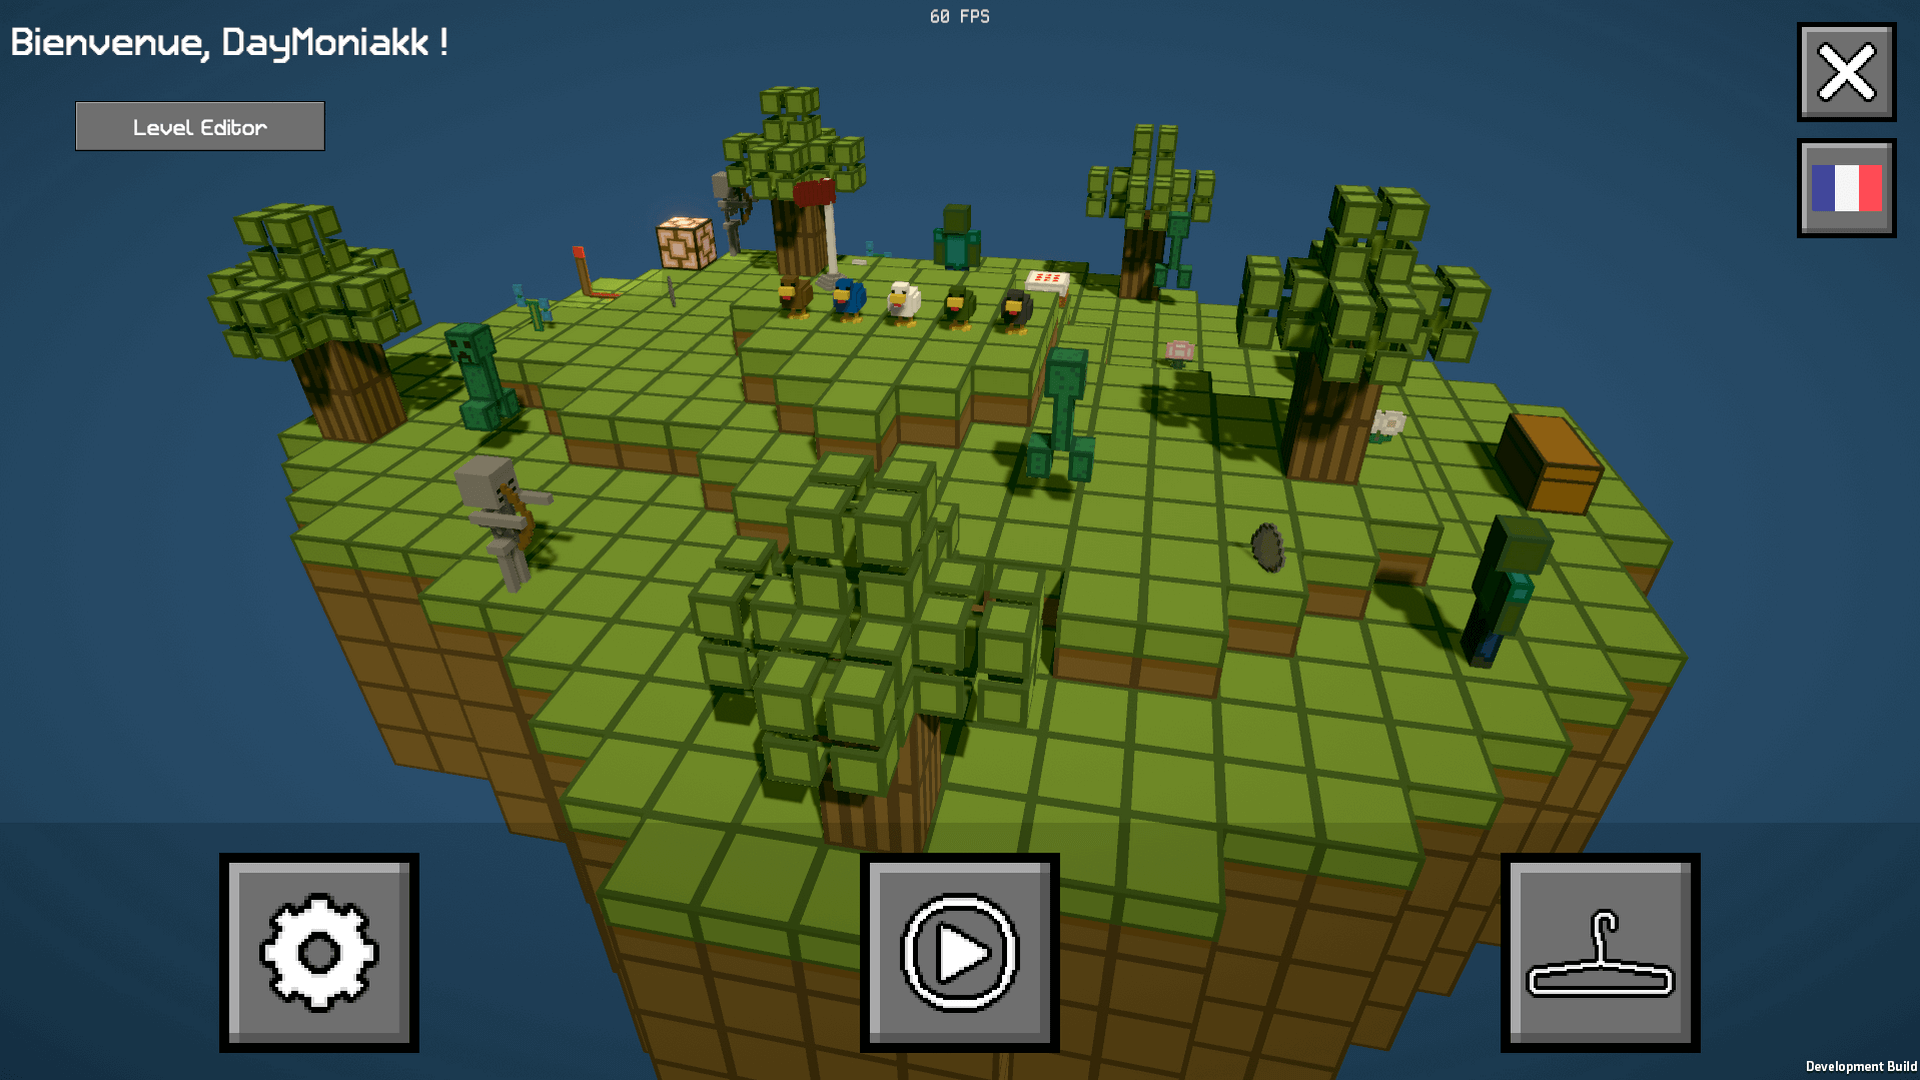
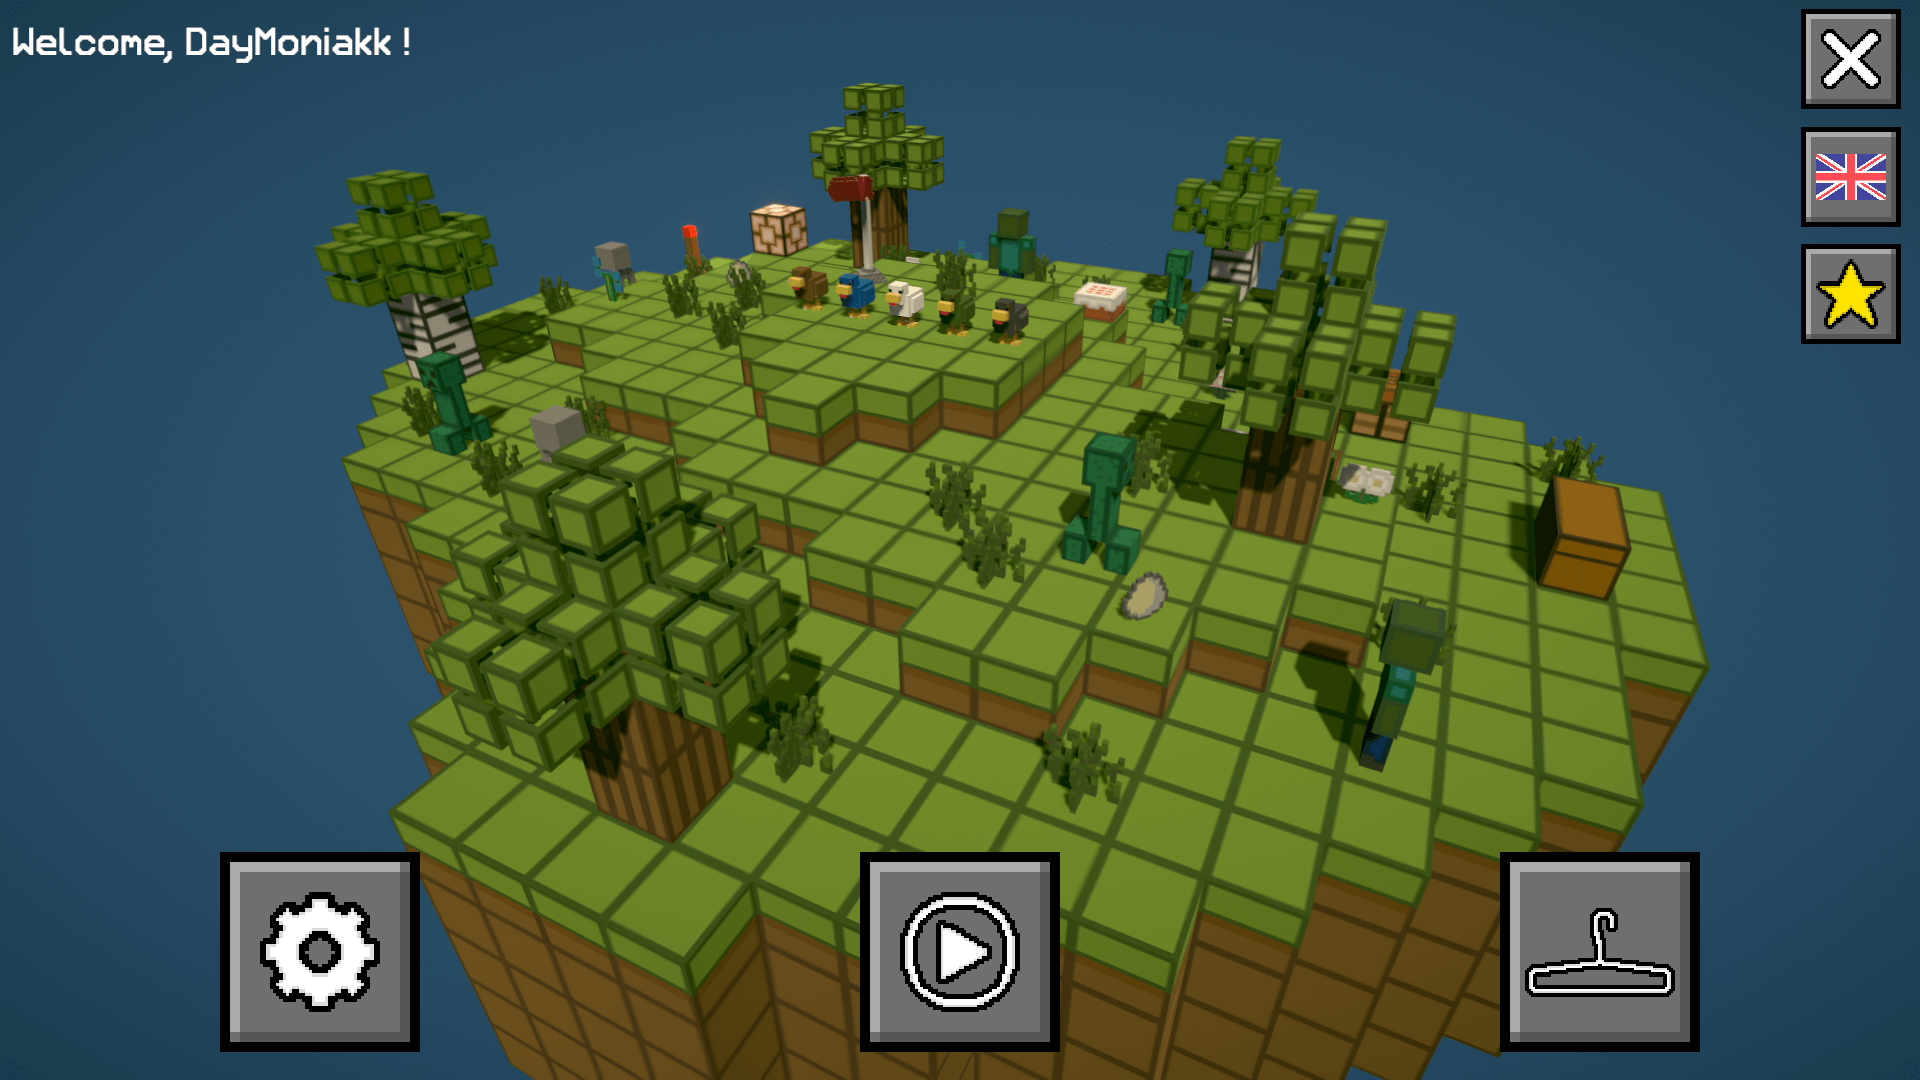
Releasing Go Chicken

diff --git a/gochicken.html b/gochicken.html
@@ -100,6 +100,7 @@
             color: #e9edf2;
             text-decoration: none;
             border-radius: 25px;
+            text-align: center;
         }
         .btnBig:hover
         {
@@ -177,10 +178,10 @@
             <img src="imgs/gochickenmenu.png" />
             <img src="imgs/gochickenzombie.png" />
             <img src="imgs/gochickenlevel.png" />
-            <img src="imgs/gochickenmodels.png" />
+            <img src="imgs/gochickenwinterlevel.png" />
             <hr />
             <p>
-                <h4 style="display:inline">Game status : </h4>  <h3 style="display:inline; color:#d56900">almost completed (version 0.9)</h3>
+                <h4 style="display:inline">Game status : </h4>  <h3 style="display:inline; color:#33cc33">Released (version 1.0)</h3>
             </p>
             <p>
                 <h4 style="display:inline">Modeling sofware : </h4>  <h3 style="display:inline">MagicaVoxel / Blender</h3>
@@ -192,14 +193,17 @@
                 <h4 style="display:inline">Game engine : </h4>  <h3 style="display:inline">Unity 2020.3</h3>
             </p>
             <p>
-                <h4 style="display:inline">Release date : </h4>  <h3 style="display:inline">First half of 2020</h3>
+                <h4 style="display:inline">Release date : </h4>  <h3 style="display:inline">1st June 2020</h3>
             </p>
             <hr />
             <p style="padding:10px">
-                <a class="btnBig" title="Download the game !">Download not available yet.</a>
+                <a class="btnBig" href="https://mega.nz/file/WJwkEAgC#elCJ7276Llv5mQ5v9kP6nEuOnoemgfuP32nnNGlfI8g" target="_blank"> Download for Windows.</a>
+                <a class="btnBig" style="background: #c44800" href="https://mega.nz/file/rRogDAZb#qjMOZrPcay8MZZPSCi9Rq74yIuDiwGIetnn13UMYBt4" target="_blank"> Download for Linux.</a>
+                <a class="btnBig" style="background: #5300ef" href="https://mega.nz/file/aUxyWaqY#m2gMc3cUF-auLNj2f6lqrzEb34egIjgXO-CJSlCGdls" target="_blank"> Download for Mac.</a>
+                <h5>(Some antivirus may stop you from running the game because the files are new. In this case you need to add a exception for the .exe and you can also report the file as false positive)</h5>
             </p>
             <hr />
-            <h1 class="Title">System specs :</h1>
+            <h1 class="Title">System specs for Windows :</h1>
             <div class="Specs">
                 <div class="MinSpecs">
                     <strong>Minimal :</strong>
